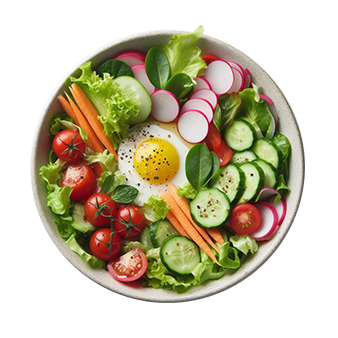
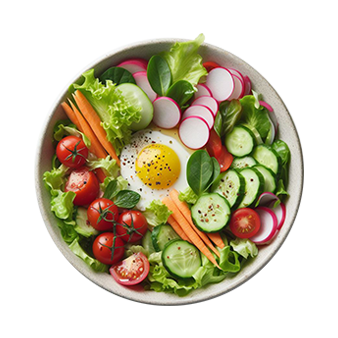
0424vegan

diff --git a/veganOfficialWeb/src/pages/Home/Catalog/Catalog.vue b/veganOfficialWeb/src/pages/Home/Catalog/Catalog.vue
@@ -31,12 +31,13 @@
             <div class="tabs" v-for="(item, index) in menu"
                 :key="index" v-show="show == index">
                 <div class="tab">
-                    <swiper-container class="menuSwiper"
-                        thumbs-swiper=".menuSubSwiper"
+                    <swiper-container
+                        :class="{ 'menuSwiper0': index == 0, 'menuSwiper1': index == 1 }"
+                        :thumbs-swiper="`.menuSubSwiper${index}`"
                         navigation="true" rewind="true"
                         :injectStyles="injectStyles">
                         <swiper-slide
-                            v-for="(url, index) in item.list"
+                            v-for="(url, index) in item.url"
                             :key="index">
                             <a href="" @click.prevent>
                                 <img :src="url" alt=""
@@ -48,14 +49,16 @@
                             </a>
                         </swiper-slide>
                     </swiper-container>
-                    <swiper-container class="menuSubSwiper"
+                    <swiper-container
+                        :class="{ 'menuSubSwiper0': index == 0, 'menuSubSwiper1': index == 1 }"
                         space-between="2"
-                        :slides-per-view="item.list?.length"
+                        :slides-per-view="item.url?.length"
                         free-mode="true"
                         watch-slides-progress="true">
                         <swiper-slide
-                            v-for="(url, index) in item.list"
-                            :key="index">
+                            v-for="(url, index) in item.url"
+                            :key="index"
+                            :class="{ 'swiper-slide-thumb-active': index == 0 }">
                             <a href="" @click.prevent>
                                 <img :src="url" alt=""
                                     v-show="isLoaded == true">
@@ -76,12 +79,12 @@
 
 <script setup lang="ts">
 /**
- * todo: Skeleton沙拉示意圖、未選中淡化
- * todo: 請求超時進不了首頁 vip測試連結 地圖區塊 菜單連結+hover、icon
- * todo: swiper說明字樣 vip數據待完成
+ * todo: 沙拉讀取加Skeleton swiper說明字樣
+ * todo: 請求超時進不了首頁(基本架構完成就進頁面) vip測試連結按鈕 地圖區塊 菜單連結+hover、icon
+ * todo: vip數據待完成
  * 
  * *0411解決切換動畫進出問題、swiper樣式問題 *0412解決服務端返回數據 *0418完成字體放本地、中英字體分離
- * *0423初步完成catalog skeleton、去背 *0424壓縮
+ * *0423初步完成catalog skeleton、去背 *0424壓縮圖片、解決兩個swiper實例問題、選中效果
  */
 import { watch, nextTick, onMounted, ref } from 'vue';
 import { reqGetNewMenu, reqGetHotMenu } from '@/api/menu'
@@ -94,13 +97,13 @@ let menu = ref([
         name: 'new',
         icon: 'CatalogNew',
         title: '當季新品',
-        list: newList.value
+        url: newList.value
     },
     {
         name: 'hot',
         icon: 'CatalogTrendingUp',
         title: '熱銷排行',
-        list: hotList.value
+        url: hotList.value
     },
     {
         name: 'vip',
@@ -131,7 +134,7 @@ function imgCounter() {
 let { loaderActivated } = storeToRefs(useLoader());
 let isLoaded = ref(false);
 watch([imgCount, menu], ([newCount,]) => {
-    let done = (menu.value[0].list!.length) + (menu.value[1].list!.length);
+    let done = (menu.value[0].url!.length) + (menu.value[1].url!.length);
     if (newCount == done) {
         loaderActivated.value = false;
         isLoaded.value = true;
@@ -143,6 +146,7 @@ watch(show, (newVal, oldVal) => {
 })
 
 onMounted(() => {
+    console.log('catalog');
     type ReqFunction = () => Promise<string[]>;
     async function getUrl(req: ReqFunction) {
         try {
@@ -153,11 +157,11 @@ onMounted(() => {
         }
     }
     getUrl(reqGetNewMenu).then(data => {
-        if (data) menu.value[0].list = data;
+        if (data) menu.value[0].url = data;
     });
 
     getUrl(reqGetHotMenu).then(data => {
-        if (data) menu.value[1].list = data;
+        if (data) menu.value[1].url = data;
     });
 })
 </script>
@@ -277,10 +281,65 @@ onMounted(() => {
         animation: 2s infinite ease-in loading;
     }
 
+    @mixin catalogTab {
+        margin-bottom: 2rem;
+
+        swiper-slide {
+            @include flex-center-center;
+
+            img {
+                @include WnH(300px);
+                filter: drop-shadow(2px 2px 2px gray);
+            }
+
+            .tabsSkeleton {
+                @include WnH(300px);
+                @include skeleton;
+            }
+        }
+    }
+
+    @mixin subCatalogTab {
+        width: fit-content;
+
+
+        .swiper-slide-thumb-active {
+            opacity: 1;
+            transform: none
+        }
+
+        swiper-slide {
+            @include flex-center-center;
+            width: fit-content !important;
+            opacity: 0.5;
+            transition: transform 0.5s ease;
+            transform: scale(0.9);
+
+            &:hover {
+                transform: scale(1);
+            }
+
+            img {
+                filter: drop-shadow(2px 2px 2px gray);
+            }
+
+            img,
+            a {
+                @include WnH(150px);
+            }
+
+
+            .tabsSkeleton {
+                @include WnH(150px);
+                @include skeleton;
+            }
+        }
+    }
+
     .tabsContainer {
         @include flex-center-center;
         position: relative;
-        min-height: 350px;
+        min-height: 600px;
 
         .tabs {
             position: absolute;
@@ -289,41 +348,14 @@ onMounted(() => {
             .tab {
                 margin: 0.5rem 0 1rem 0;
 
-                .menuSwiper {
-                    margin-bottom: 1rem;
-
-                    swiper-slide {
-                        @include flex-center-center;
-
-                        img {
-                            @include WnH(215px)
-                        }
-
-                        .tabsSkeleton {
-                            @include WnH(215px);
-                            @include skeleton;
-                        }
-                    }
+                .menuSwiper0,
+                .menuSwiper1 {
+                    @include catalogTab;
                 }
 
-                .menuSubSwiper {
-                    width: fit-content;
-
-                    swiper-slide {
-                        @include flex-center-center;
-                        width: fit-content !important;
-
-                        img,
-                        a {
-                            @include WnH(107px)
-                        }
-
-                        .tabsSkeleton {
-                            @include WnH(107px);
-                            @include skeleton;
-                        }
-                    }
-
+                .menuSubSwiper0,
+                .menuSubSwiper1 {
+                    @include subCatalogTab;
                 }
             }
         }

diff --git a/veganOfficialWeb/src/utils/requests.ts b/veganOfficialWeb/src/utils/requests.ts
@@ -4,12 +4,10 @@ import type { AxiosRequestConfig, AxiosResponse, AxiosAdapter } from 'axios';
 const customAdapter: AxiosAdapter = async (config: AxiosRequestConfig): Promise<AxiosResponse<any>> => {
     const reqRetry = async (retryCount = 0): Promise<AxiosResponse<any>> => {
         try {
-            console.log('開始請求');
             return await axios({ ...config, adapter: axios.defaults.adapter });
         } catch (error) {
             const maxRetries = 3;
             if (retryCount < maxRetries) {
-                console.log('重試', retryCount);
                 const retryDelay = Math.pow(2, retryCount) * 1000;
                 return new Promise((resolve, reject) => {
                     setTimeout(() => {
@@ -17,7 +15,6 @@ const customAdapter: AxiosAdapter = async (config: AxiosRequestConfig): Promise<
                     }, retryDelay);
                 });
             }
-            console.log('超過次數');
             throw error;
         }
     };

diff --git a/veganOfficialWeb/src/router/index.ts b/veganOfficialWeb/src/router/index.ts
@@ -51,8 +51,9 @@ const router = createRouter({
 // router.beforeEach(() => {
 //     NProgress.start()
 // })
-// router.afterEach(() => {
-//     NProgress.done()
-// })
+router.afterEach(() => {
+    // NProgress.done()
+    console.log('router');
+})
 
 export default router

diff --git a/veganOfficialWeb/src/components/Footer/VeganFooter.vue b/veganOfficialWeb/src/components/Footer/VeganFooter.vue
@@ -12,7 +12,6 @@
 <script setup lang="ts">
 import InfoFooter from './InfoFooter.vue';
 import MainFooter from './MainFooter.vue';
-
 </script>
 
 <style lang="scss" scoped>
